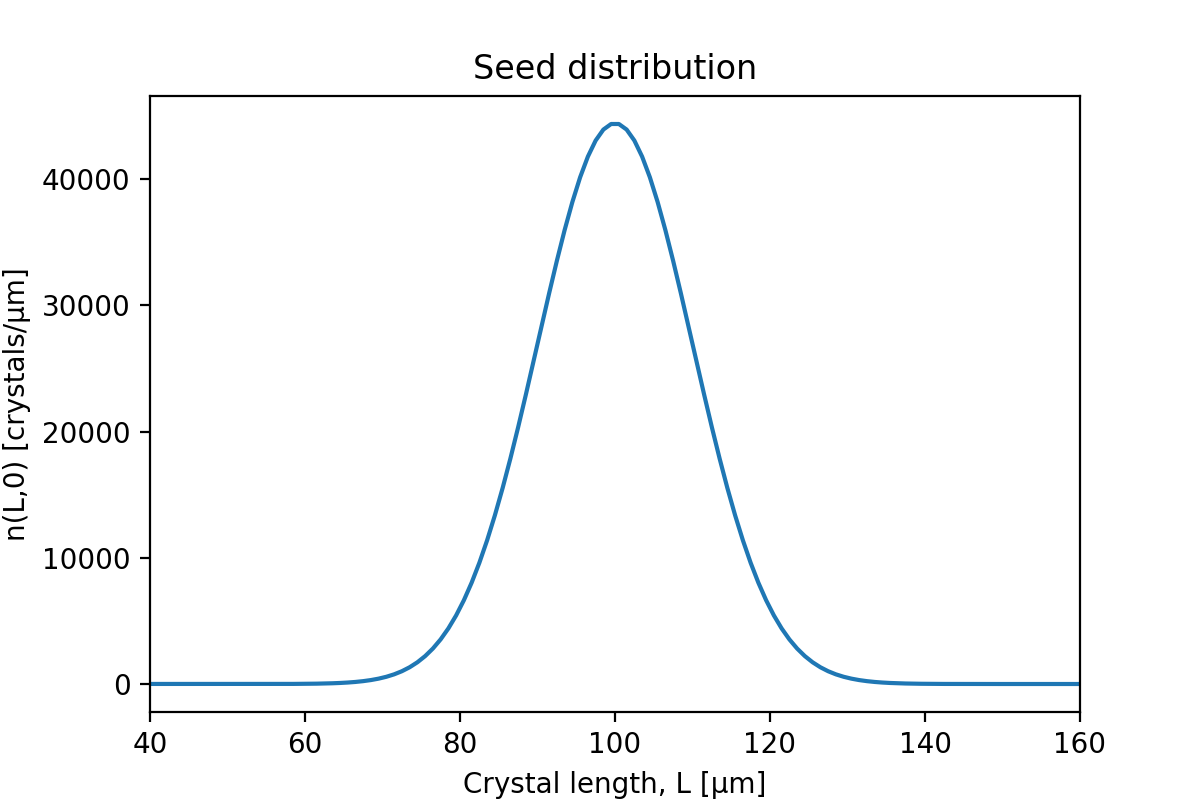
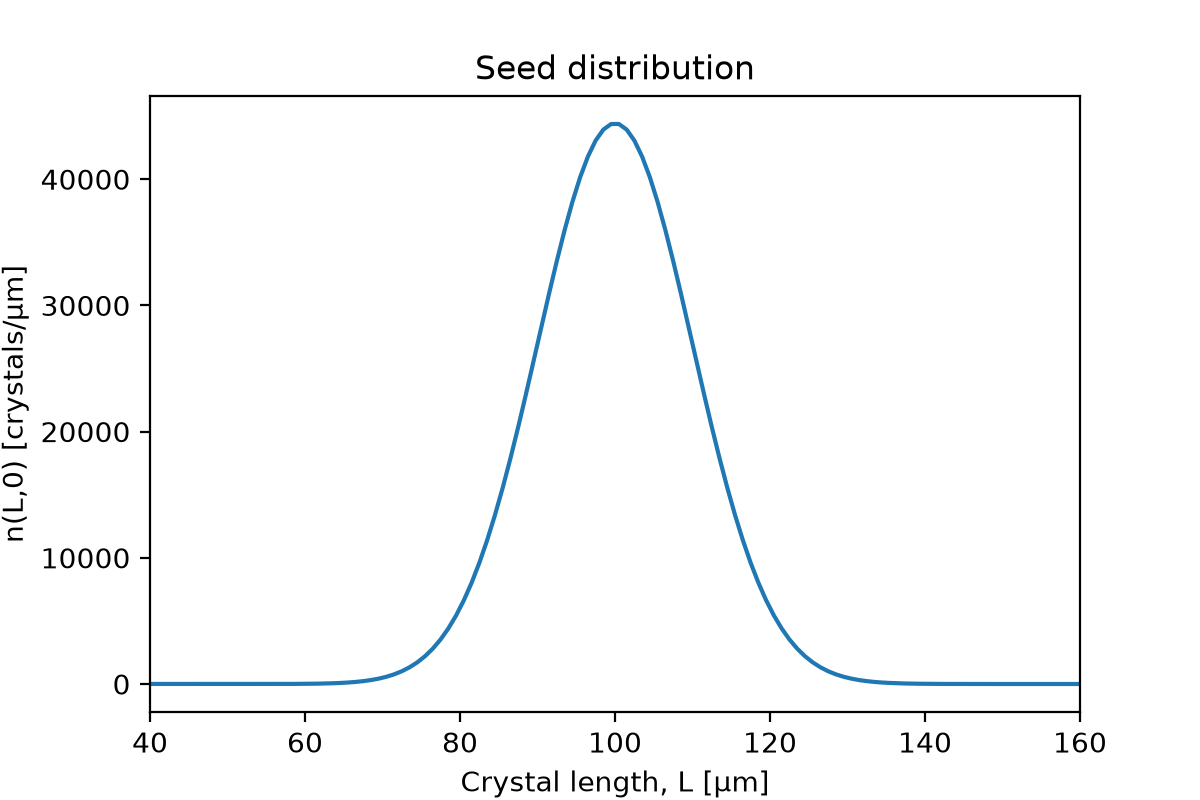
Add kinetics fits, seed distribution and PBE solver for solid and liquid phases

diff --git a/sciform.py b/sciform.py
@@ -2,9 +2,12 @@ from pathlib import Path
 import numpy as np
 import pandas as pd
 import matplotlib.pyplot as plt
+import warnings
+from scipy.optimize import curve_fit
+from scipy.integrate import solve_ivp
 
-c0 = 8.0              # initial concentration [g/kg]
-T = 15.0              # temperature [°C]
+c0 = 20         # initial concentration [g/kg]
+T = 15           # temperature [°C]
 
 L_mean = 100.0        # seed average length [μm]
 sigma_L = 10.0        # seed length std dev [μm]
@@ -21,6 +24,12 @@ t_max = 86400         # simulation time [s]
 # Solubility: c* = a * exp(b*T)
 a = 3.37                # [g/kg]
 b = 0.0359              # [1/°C]
+
+
+# gets looks for the file in the folder and renames the headings
+here = Path(__file__).parent
+df = pd.read_csv(here / "SoF-Coursework-26-27-KineticData.csv")
+df.columns = ["S", "G", "Nuc_rate"]
 
 
 #Fitting function of G to S
@@ -70,11 +79,6 @@ SS_tot = np.sum((G - np.mean(G))**2)             # total variation in data
 R2 = 1 - SS_res / SS_tot
 print(f"R² = {R2:.5f}")
 
-# gets looks for the file in the folder and renames the headings
-here = Path(__file__).parent
-df = pd.read_csv(here / "SoF-Coursework-26-27-KineticData.csv")
-df.columns = ["S", "G", "Nuc_rate"]
-
 x = []   # 1 / ln(S)^2
 y = []   # ln(B)
 
@@ -113,3 +117,118 @@ plt.xlim(40, 160)
 plt.savefig(here/ "seeds.png", dpi=200)
 print("saved seeds.png")
 
+# Solubility and supersaturation
+def solubility(T):
+    return a * np.exp(b * T)
+
+def supersaturation(c, T):
+    return c / solubility(T)
+
+c_star = solubility(T)              # solubility at 15 °C [g/kg]
+S0 = supersaturation(c0, T)         # initial supersaturation [-]
+
+print(f"c*  = {c_star:.3f} g/kg")
+print(f"S0  = {S0:.3f}")
+print(f"max solute that can crystallise = {c0 - c_star:.3f} g/kg")
+
+# ---------- Setup ----------
+m_solvent = 1.0                 # solvent mass [kg]  (assumed basis, not in Table 1)
+c_star = solubility(T)          # c* at 15 °C [g/kg]
+N_bin = len(L)                  # number of size bins (500)
+
+
+# ---------- Kinetics: links the two phases ----------
+def kinetics(c):
+    """Growth rate G [μm/s] and nucleation rate J [crystals/s] from concentration."""
+    S = c / c_star
+    if S > 1:
+        G = float(growth_function(S, *fit_var_G))
+        J = A * np.exp(-B / np.log(S)**2) * m_solvent
+    else:
+        G = 0.0
+        J = 0.0
+    return G, J
+
+
+# ---------- Solid phase: population balance ----------
+def solid_phase(f, G, J):
+    """df/dt for every size bin."""
+    dfdt = np.zeros(N_bin)
+    for i in range(N_bin):
+        if i == 0:
+            flux_in = J                 # boundary condition at L = 0
+        else:
+            flux_in = G * f[i-1]        # growth in from the bin below
+        flux_out = G * f[i]             # growth out to the bin above
+        dfdt[i] = (flux_in - flux_out) / dL
+    return dfdt
+
+
+# ---------- Liquid phase: solute mass balance ----------
+def liquid_phase(dfdt):
+    """dc/dt: solute leaves the liquid at the rate the crystals gain mass."""
+    mass_rate = 0.0                     # [g/s]
+    for i in range(N_bin):
+        mass_rate = mass_rate + rho_c * kv * L[i]**3 * dfdt[i] * dL
+    dcdt = -mass_rate / m_solvent
+    return dcdt
+
+
+# ---------- Combine both phases for the solver ----------
+def rhs(t, y):
+    f = y[:N_bin]                       # solid phase state
+    c = y[N_bin]                        # liquid phase state
+
+    G, J = kinetics(c)
+    dfdt = solid_phase(f, G, J)
+    dcdt = liquid_phase(dfdt)
+
+    dydt = np.zeros(N_bin + 1)
+    for i in range(N_bin):
+        dydt[i] = dfdt[i]
+    dydt[N_bin] = dcdt
+    return dydt
+
+
+# ---------- Initial conditions ----------
+y0 = np.zeros(N_bin + 1)
+for i in range(N_bin):
+    y0[i] = n0[i]                       # seeds
+y0[N_bin] = c0                          # initial concentration
+
+
+# ---------- Solve ----------
+t_out = np.linspace(0, t_max, 500)
+sol = solve_ivp(rhs, [0, t_max], y0, method="LSODA",
+                t_eval=t_out, rtol=1e-6, atol=1e-8)
+print("solver finished:", sol.success)
+
+f_end = sol.y[:N_bin, -1]               # final size distribution
+c_t = sol.y[N_bin]                      # concentration over time
+
+print(sol.y[:N_bin, -1])                                   # all 500 final PSD values [crystals/μm]
+print(f"final concentration = {sol.y[N_bin, -1]:.4f} g/kg")
+
+# ---------- Checks ----------
+m_end = rho_c * kv * np.sum(f_end * L**3 * dL)
+c_check = c0 - (m_end - m_seed) / m_solvent
+print(f"final c = {c_t[-1]:.4f} g/kg, from crystal mass = {c_check:.4f} g/kg")
+print(f"final S = {c_t[-1] / c_star:.4f}, crystal mass = {m_end:.4f} g")
+print(f"f in the last bin at the end = {f_end[-1]:.3e}")
+
+# ---------- Plot the size distribution at the final time ----------
+f_end = sol.y[:N_bin, -1]               # all bins, last time point
+
+plt.figure(figsize=(7, 5))
+plt.plot(L, f_end, label=f"t = {t_out[-1]:.0f} s")
+plt.xlabel("Crystal length, L [μm]")
+plt.ylabel("f(t, L) [crystals/μm]")
+plt.xlim(0, 250)
+plt.legend()
+plt.tight_layout()
+plt.savefig(here / "psd_final.png", dpi=200)
+print("saved psd_final.png")
+
+for i in range(N_bin):
+    print(f"L = {L[i]:6.1f} μm    f = {sol.y[i, -1]:.4e} crystals/μm")
+print(f"final concentration = {sol.y[N_bin, -1]:.4f} g/kg")
